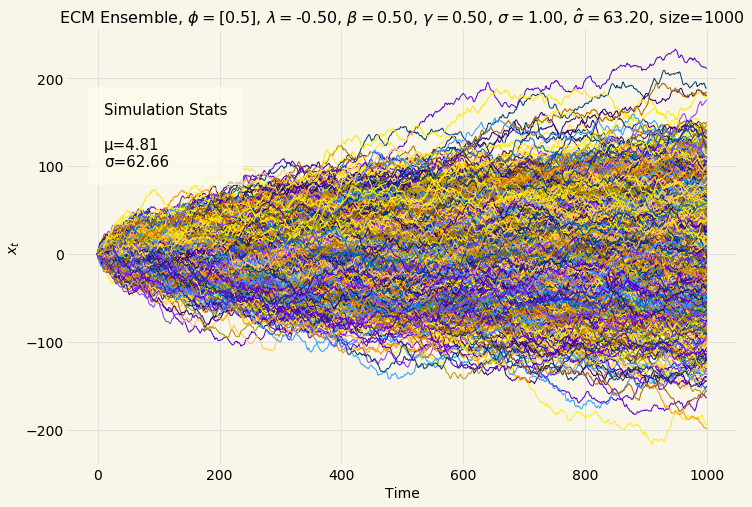
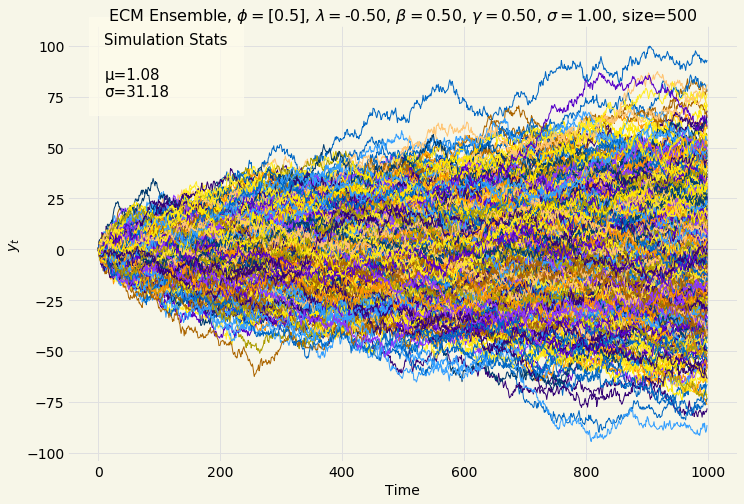
started work on ensemble stats plots

diff --git a/hydrogen_notebooks/algorithmic_trading/mean_reversion/ecm_properties.py b/hydrogen_notebooks/algorithmic_trading/mean_reversion/ecm_properties.py
@@ -116,7 +116,7 @@ def var_xt(φ, n):
 arima_params = {"φ": numpy.array([0.5]), "δ": numpy.array([]), "d": 1}
 ecm_params = {"δ": 0.0, "γ": 0.5, "λ": -0.5, "α": 0.0, "β": 0.5, "σ": 1.0}
 n = 1000
-m = 1000
+m = 500
 image_postfix = f"_φ_{format(arima_params['φ'][0], '1.1f')}_β_{format(ecm_params['β'], '1.1f')}_λ_{format(ecm_params['λ'], '1.1f')}_γ_{format(ecm_params['γ'], '1.1f')}_σ_{format(ecm_params['σ'], '1.1f')}"
 
 samples = generate_ensemble(arima_params, ecm_params, n, m)
@@ -141,8 +141,19 @@ ensemble_plot(yt, [10.0, 75.0], title, ylab, plot_name)
 
 # %%
 
-β_estimate = numpy.zeros(n)
-for i in range(n):
-    params, rsquard, err = arima.ols_estimate(xt[0], yt[0], False)
+β_estimate = numpy.zeros(m)
+for i in range(m):
+    params, rsquard, err = arima.ols_estimate(xt[i], yt[i], False)
+    β_estimate[i] = params[1]
 
-εt = yt - ecm_params['β']*xt
+β_avg = numpy.mean(β_estimate)
+β_std = numpy.std(β_estimate)
+
+# %%
+
+εt = yt - β_avg*xt
+
+# %%
+
+εt.shape
+stats.correletion_coefficient(εt[m-1:][0], xt[m-1:][0])

diff --git a/lib/stats.py b/lib/stats.py
@@ -54,7 +54,7 @@ def covariance(x, y):
 
 def correletion_coefficient(x, y):
     cov = covariance(x, y)
-    return cov/numpy.sqrt((numpy.var(x)*umpy.var(y)))
+    return cov/numpy.sqrt((numpy.var(x)*numpy.var(y)))
 
 def cum_covariance(x, y):
     nsample = min(len(x), len(y))
